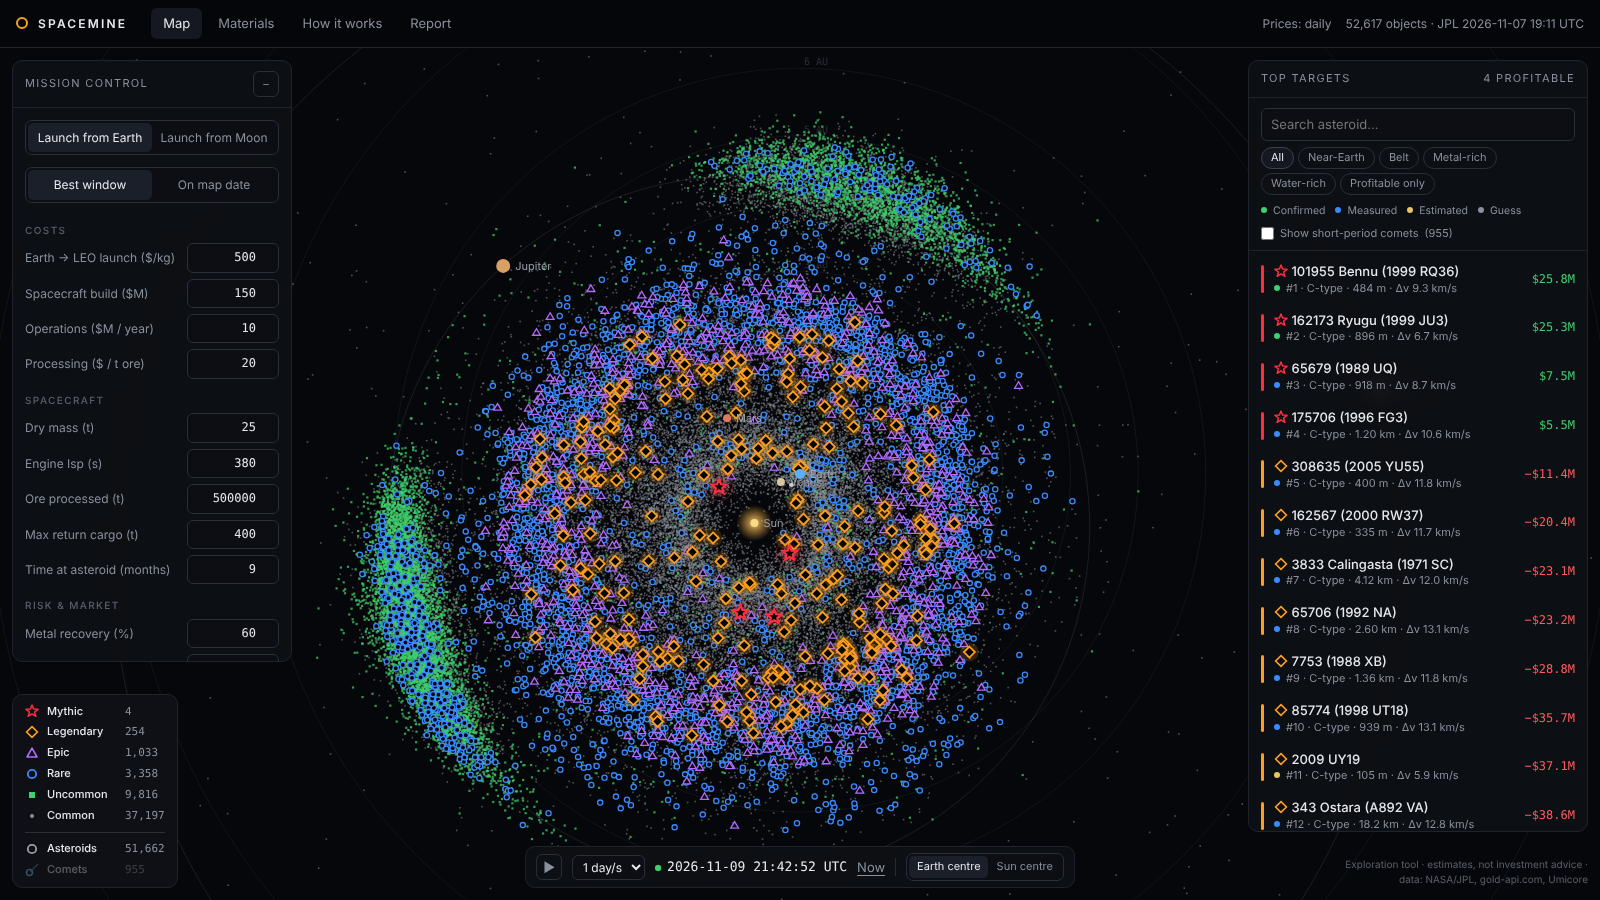
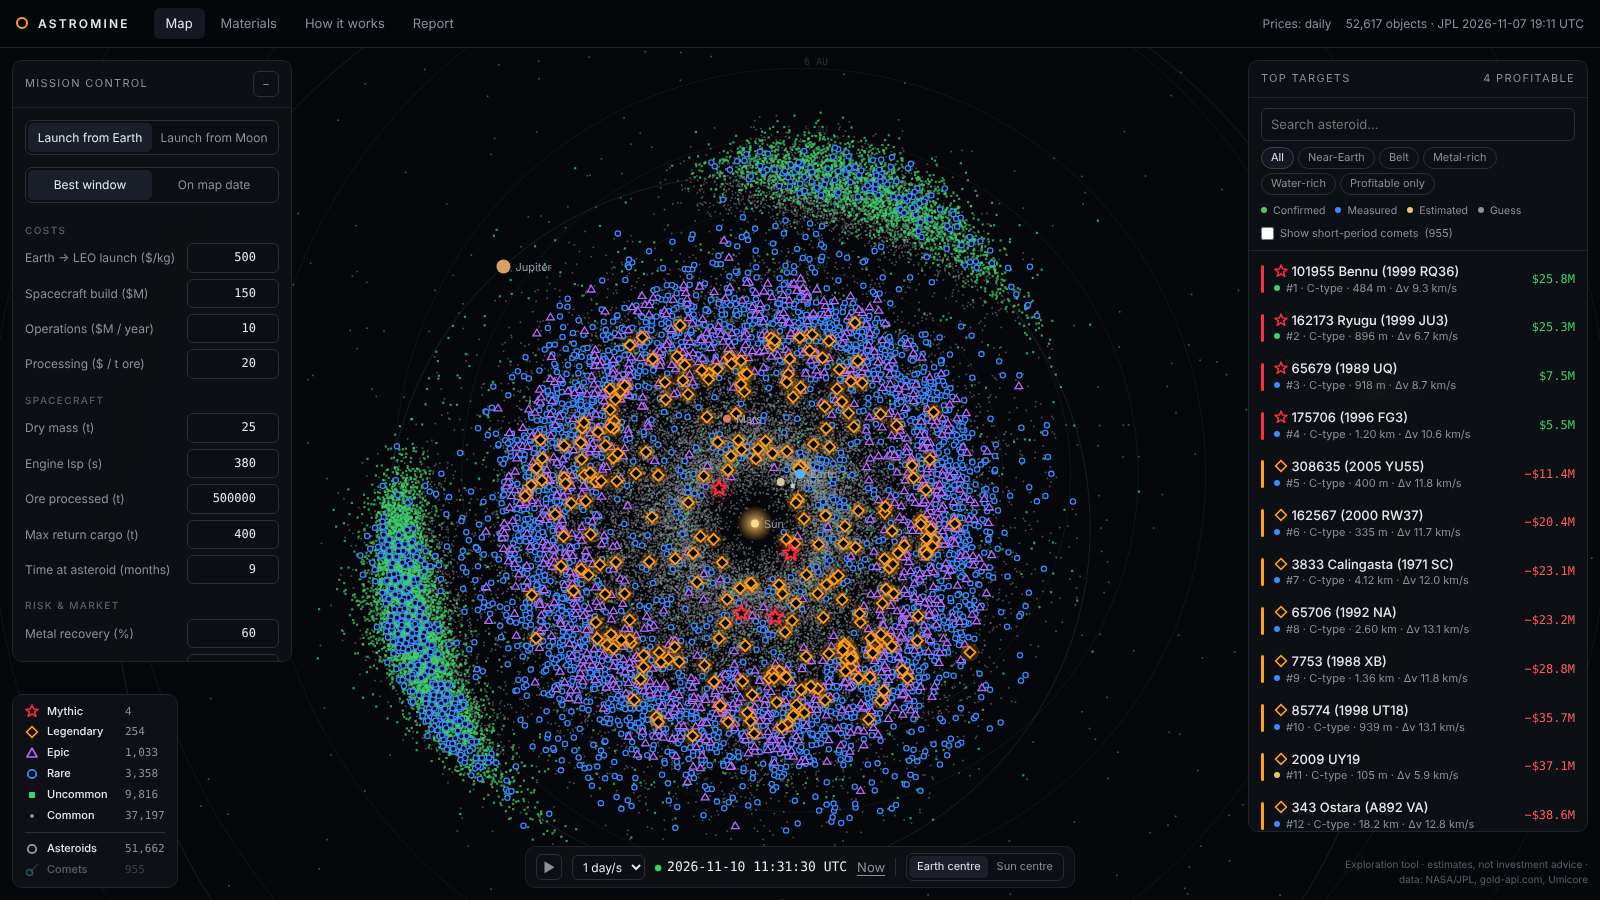
Rename back to Astromine
Claude-Session: https://claude.ai/code/session_014qHNGQWW1ZMbDVJNi2FEGT

Changed region(s): [[0.2188, 0.1244, 0.6562, 0.9333], [0.0312, 0.0, 0.2812, 0.0311], [0.3125, 0.28, 0.3438, 0.3111]]

diff --git a/index.html b/index.html
@@ -3,14 +3,14 @@
 <head>
 <meta charset="utf-8">
 <meta name="viewport" content="width=device-width,initial-scale=1">
-<title>Spacemine — Asteroid Prospecting Map</title>
+<title>Astromine — Asteroid Prospecting Map</title>
 <meta name="description" content="Live map of 50,000+ real asteroids and comets ranked by mining profit — NASA/JPL orbits, NASA NHATS trajectories and live metal prices.">
-<link rel="canonical" href="https://mauki65.github.io/spacemine/">
+<link rel="canonical" href="https://mauki65.github.io/astromine/">
 <meta property="og:type" content="website">
-<meta property="og:title" content="Spacemine — which asteroids are worth mining?">
+<meta property="og:title" content="Astromine — which asteroids are worth mining?">
 <meta property="og:description" content="Live map of 50,000+ real asteroids ranked Common → Mythic by mining profit. NASA data, real trajectories, live metal prices.">
-<meta property="og:image" content="https://mauki65.github.io/spacemine/assets/og.png">
-<meta property="og:url" content="https://mauki65.github.io/spacemine/">
+<meta property="og:image" content="https://mauki65.github.io/astromine/assets/og.png">
+<meta property="og:url" content="https://mauki65.github.io/astromine/">
 <meta name="twitter:card" content="summary_large_image">
 <meta name="theme-color" content="#06070a">
 <link rel="preconnect" href="https://fonts.googleapis.com">
@@ -20,7 +20,7 @@
 </head>
 <body>
 <header class="top">
-  <div class="brand"><span class="mark"></span>SPACEMINE</div>
+  <div class="brand"><span class="mark"></span>ASTROMINE</div>
   <nav class="tabs">
     <button data-tab="map" class="on">Map</button>
     <button data-tab="materials">Materials</button>

diff --git a/js/main.js b/js/main.js
@@ -9,8 +9,8 @@ const OZT = 0.0311034768;
 
 // ---------- state ----------
 const store = {
-  get(k, d) { try { const v = localStorage.getItem('spacemine.' + k); return v ? JSON.parse(v) : d; } catch { return d; } },
-  set(k, v) { try { localStorage.setItem('spacemine.' + k, JSON.stringify(v)); } catch {} },
+  get(k, d) { try { const v = localStorage.getItem('astromine.' + k); return v ? JSON.parse(v) : d; } catch { return d; } },
+  set(k, v) { try { localStorage.setItem('astromine.' + k, JSON.stringify(v)); } catch {} },
 };
 const S = { ...DEFAULTS, ...store.get('settings', {}) };
 delete S.costMoon; if (!(S.moonPct >= 0)) S.moonPct = DEFAULTS.moonPct;

diff --git a/scripts/taxonomy.py b/scripts/taxonomy.py
@@ -22,7 +22,7 @@ def fresh():
 
 def download(kind):
     path = f'/tmp/bft-{kind}.parquet'
-    req = urllib.request.Request(URL.format(kind), headers={'User-Agent': 'spacemine-data-bot'})
+    req = urllib.request.Request(URL.format(kind), headers={'User-Agent': 'astromine-data-bot'})
     with urllib.request.urlopen(req, timeout=600) as r, open(path, 'wb') as f:
         while chunk := r.read(1 << 20):
             f.write(chunk)

diff --git a/README.md b/README.md
@@ -1,8 +1,8 @@
-# Spacemine — which asteroids are worth mining?
+# Astromine — which asteroids are worth mining?
 
-**Live:** https://mauki65.github.io/spacemine/ · **Monthly-style report (auto-updated):** https://mauki65.github.io/spacemine/report/
+**Live:** https://mauki65.github.io/astromine/ · **Monthly-style report (auto-updated):** https://mauki65.github.io/astromine/report/
 
-![Spacemine map](assets/screenshot.png)
+![Astromine map](assets/screenshot.png)
 
 An interactive map of 50,000+ real asteroids and comets from Venus to Saturn, ranked **Common → Uncommon → Rare → Epic → Legendary → Mythic** by expected profit per mining mission. Plug in your own launch costs, spacecraft and risk, launch from Earth or the Moon, and watch the whole solar system re-rank.
 
